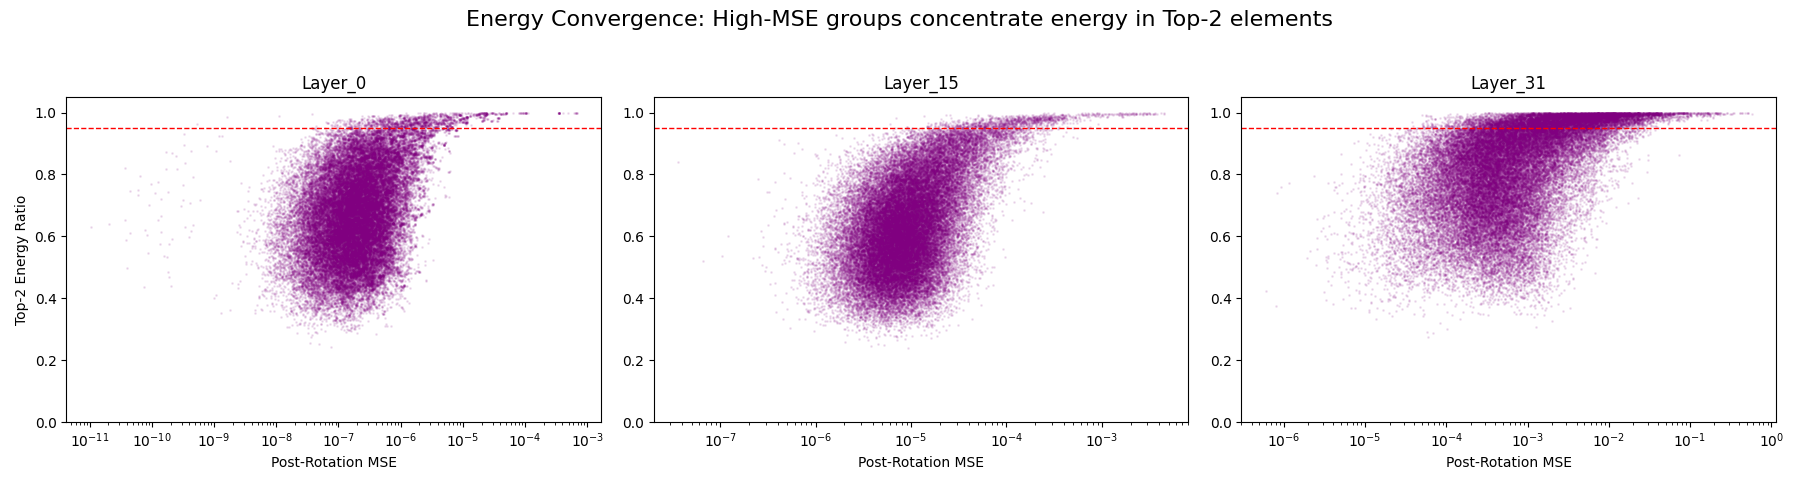
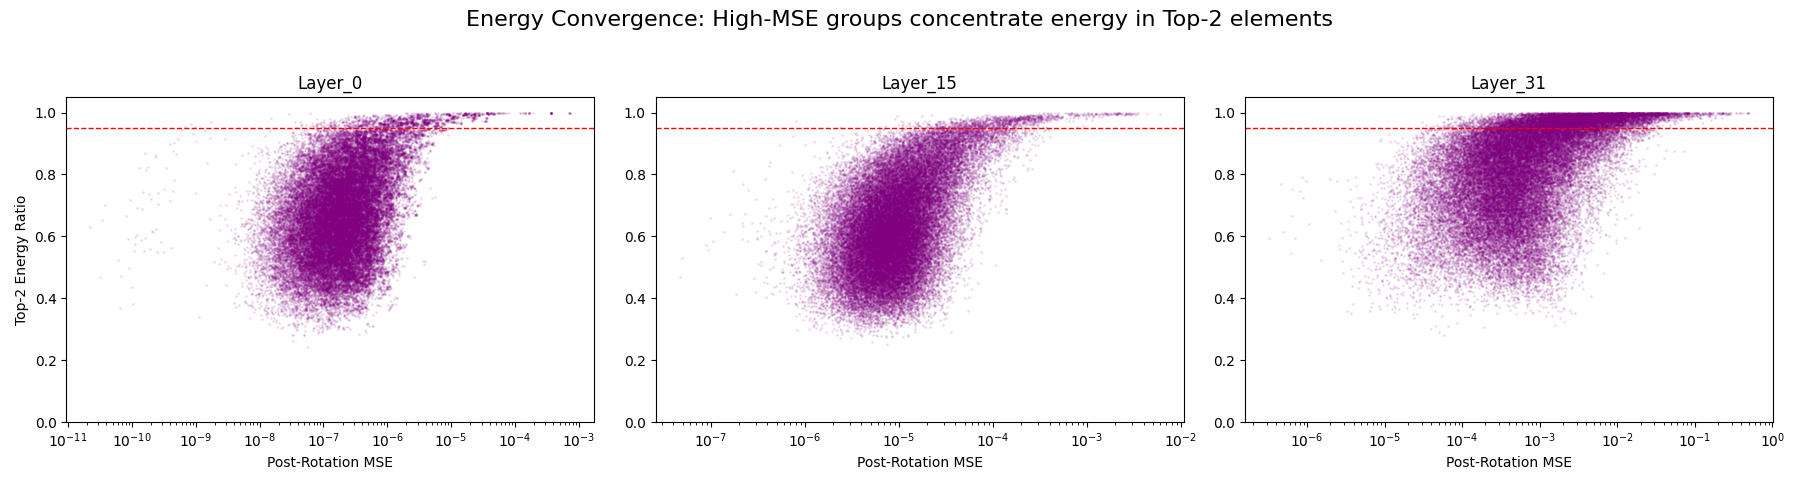
heatmap: top2 energy&ratio ctrl mse

diff --git a/T1T2_testing.py b/T1T2_testing.py
@@ -5,6 +5,7 @@ from transformers import AutoModelForCausalLM, AutoTokenizer
 import matplotlib.pyplot as plt
 import numpy as np
 import matplotlib
+from matplotlib.colors import LogNorm
 from scipy.stats import pearsonr, spearmanr
 from tqdm import tqdm
 
@@ -50,6 +51,7 @@ def analyze_layer_shape(layer_name, X, quantizer, transform):
         "layer_name": layer_name,
         "E_total": E_total.cpu().numpy(),
         "E_max": E_max.cpu().numpy(),
+        "E_top12": (Top1**2 + Top2**2).cpu().numpy(),
         "Ratio_top2_energy": Top2_energy_ratio.cpu().numpy(),
         "Ratio_top3_energy": Top3_energy_ratio.cpu().numpy(),
         "R": R.cpu().numpy(),
@@ -161,6 +163,32 @@ def plot_consolidated_results(results_list):
     fig2.tight_layout(rect=[0, 0.03, 1, 0.95])
     fig2.savefig("consolidated_resonance_profile.png")
 
+    # --- 图表 3: 散点热图 (Scatter Heatmap) ---
+    fig3, axes3 = plt.subplots(1, n_layers, figsize=(18, 5))
+    if n_layers == 1: axes3 = [axes3]
+    for i, res in enumerate(results_list):
+        ax = axes3[i]
+        
+        sample_size = min(50000, len(res["mse_rot"]))
+        idx = np.random.choice(len(res["mse_rot"]), sample_size, replace=False)
+        
+        x = res["R"][idx]
+        y = res["E_top12"][idx]
+        c = res["mse_rot"][idx]
+        
+        # 使用 LogNorm 使低损失和高损失的颜色区分更明显
+        sc = ax.scatter(x, y, c=c, cmap='jet', s=3, alpha=0.8, norm=LogNorm(vmin=np.percentile(c, 5), vmax=np.percentile(c, 99)))
+        
+        ax.set_title(f"{res['layer_name']}")
+        ax.set_xlabel("Ratio $R = |Top2|/|Top1|$ (0~1)")
+        if i == 0: ax.set_ylabel("Sum of Top1 & Top2 Energy")
+        ax.set_yscale('log')
+        fig3.colorbar(sc, ax=ax, label="Post-Rot MSE")
+        
+    fig3.suptitle("Heatmap: Joint Impact of Energy Scale and R-Ratio on Quantization Loss", fontsize=16)
+    fig3.tight_layout(rect=[0, 0.03, 1, 0.95])
+    fig3.savefig("consolidated_heatmap.png")
+
 
 
 def main():
@@ -200,7 +228,7 @@ def main():
     
     print("\nGenerating consolidated plots...")
     plot_consolidated_results(results_cache)
-    print("Done. Check consolidated_convergence.png and consolidated_resonance_profile.png")
+    print("Done. Check consolidated_convergence.png, consolidated_resonance_profile.png, and consolidated_heatmap.png")
 
 if __name__ == "__main__":
     main()

diff --git a/model_quant.py b/model_quant.py
@@ -247,6 +247,12 @@ def parse_args():
         help="Weigth quantization order in GPTQ.",
     )
     parser.add_argument("--rel_damp", type=float, default=1e-2)
+    parser.add_argument(
+        "--awq_for_act",
+        type=float,
+        default=0.0,
+        help="Apply AWQ-style channel scaling preprocessing to activations with the given threshold (e.g., 10.0).",
+    )
     # Transform params
     parser.add_argument(
         "--transform_class",
